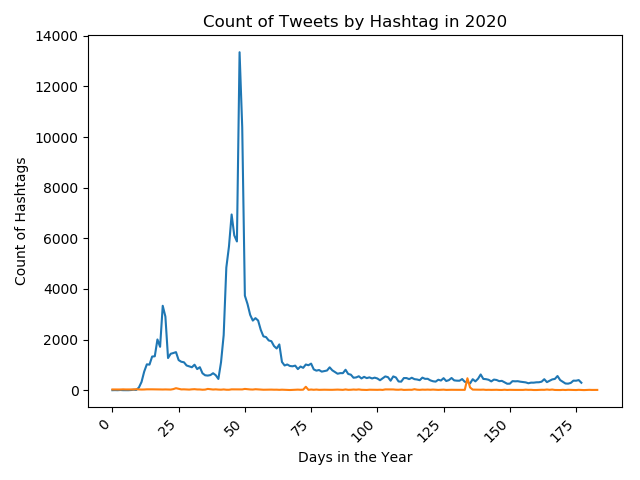
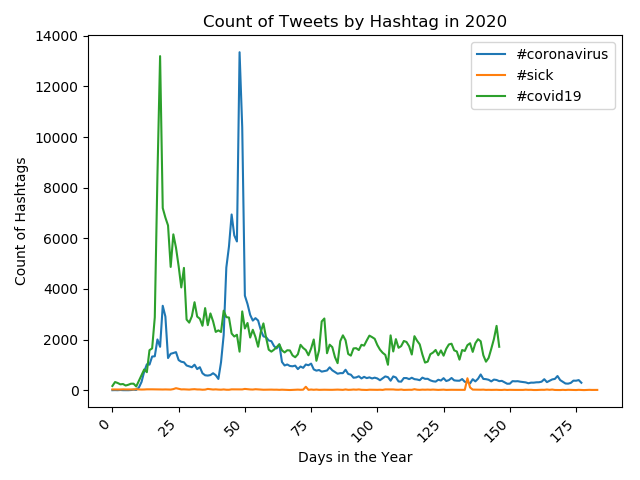
added labels for hashtags and added #covid19

diff --git a/src/alternative_reduce.py b/src/alternative_reduce.py
@@ -33,6 +33,9 @@ plt.xlabel('Days in the Year' )
 plt.ylabel('Count of Hashtags')
 plt.title('Count of Tweets by Hashtag in 2020')
 
+# Key for Hashtags
+plt.legend()
+
 # Rotated the x-axis labels for better readability
 plt.xticks(rotation=45, ha='right')
 plt.tight_layout()
